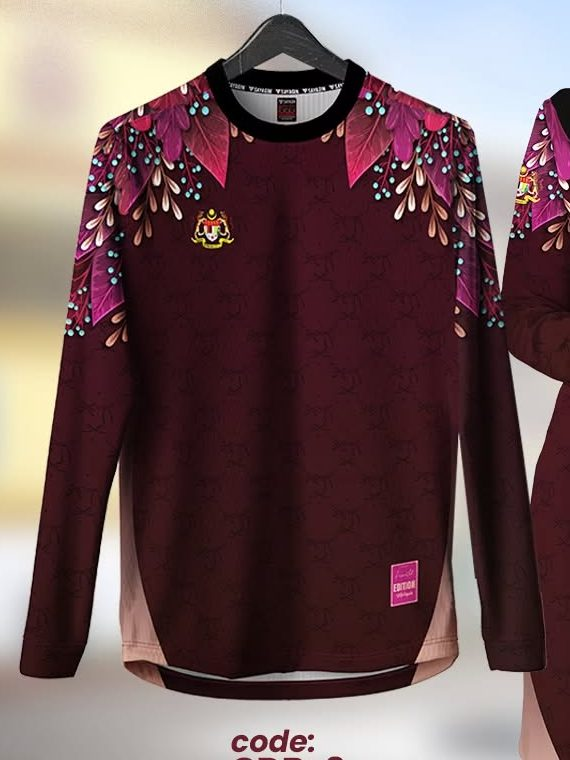
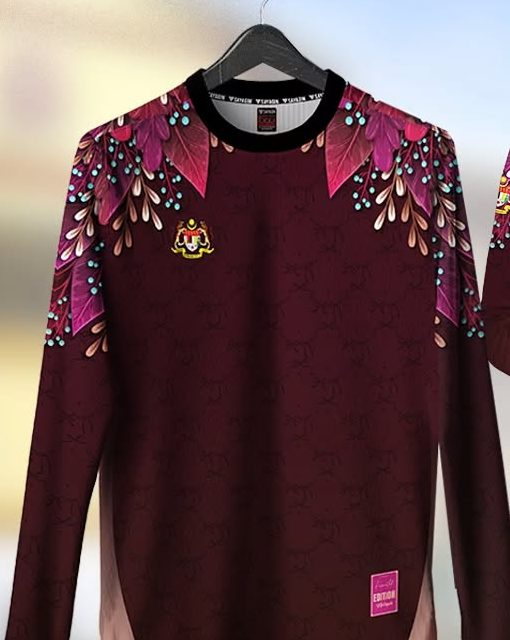
Redesign hero as photo collage, clean product crops, fill FAQ answers
Claude-Session: https://claude.ai/code/session_01PK6wSYaoAdP436P31zBBdm

diff --git a/index.html b/index.html
@@ -91,6 +91,20 @@
   .hero-card{background:var(--black);border-radius:20px;padding:18px;transform:rotate(2deg);box-shadow:10px 10px 0 rgba(0,0,0,.18);transition:transform .3s}
   .hero-card:hover{transform:rotate(0)}
   .hero-img{width:100%;height:auto;aspect-ratio:1024/864;object-fit:cover;object-position:center top;border-radius:12px}
+  .hero-visual{position:relative;width:100%;max-width:500px;aspect-ratio:1/1;justify-self:end}
+  .hv{position:absolute;margin:0;background:#111;border-radius:18px;padding:10px 10px 0;box-shadow:8px 8px 0 rgba(0,0,0,.2);transition:transform .35s ease}
+  .hv img{display:block;width:100%;height:auto;border-radius:10px;object-fit:cover}
+  .hv figcaption{color:#fff;font-weight:800;text-transform:uppercase;font-size:.7rem;letter-spacing:.08em;padding:10px 4px}
+  .hv-back{width:62%;right:0;top:0;transform:rotate(5deg)}
+  .hv-back img{aspect-ratio:1/1}
+  .hv-back figcaption{text-align:right}
+  .hv-front{width:50%;left:2%;bottom:0;transform:rotate(-4deg);z-index:2}
+  .hv-front img{aspect-ratio:4/5;object-position:center top}
+  .hero-visual:hover .hv-back{transform:rotate(7deg) translateY(-4px)}
+  .hero-visual:hover .hv-front{transform:rotate(-6deg) translateY(-4px)}
+  .hv-sticker{position:absolute;right:4%;bottom:6%;z-index:3;width:118px;height:118px;border-radius:50%;background:#111;color:var(--yellow);border:3px solid var(--yellow);box-shadow:0 0 0 3px #111;display:grid;place-content:center;text-align:center;transform:rotate(-12deg);line-height:1.1}
+  .hv-sticker b{font-size:1.25rem;font-weight:900;text-transform:uppercase}
+  .hv-sticker span{font-size:.64rem;font-weight:800;text-transform:uppercase;letter-spacing:.06em;color:#fff}
   .hero-card .ph{aspect-ratio:4/5;border-radius:12px;background:repeating-linear-gradient(-45deg,#1c1c1c 0 16px,#232323 16px 32px);display:grid;place-items:center;color:#8a867e;font-size:.76rem;font-weight:600;text-align:center;padding:20px}
   .hero-card .ph img{width:38%;margin:0 auto 14px;filter:invert(79%) sepia(73%) saturate(1200%) hue-rotate(358deg) brightness(103%)}
   .hero-card .cap{display:flex;justify-content:space-between;align-items:center;color:#fff;margin-top:14px;font-weight:800;text-transform:uppercase;font-size:.82rem;letter-spacing:.04em}
@@ -101,7 +115,7 @@
     .hero .ctas{display:grid;grid-template-columns:1fr 1fr}
     .hero .ctas .btn{padding:14px 10px}
     .hero-card{transform:rotate(1.5deg)}
-    .hero-img{aspect-ratio:4/3}
+    .hero-visual{justify-self:center;max-width:400px}.hv-sticker{width:96px;height:96px}.hv-sticker b{font-size:1rem}
   }
   @media (max-width:400px){.hero .ctas{grid-template-columns:1fr}}
 
@@ -335,9 +349,10 @@
         <span>✓ Berdaftar SSM</span><span>✓ Sejak 2023</span><span>✓ Pos seluruh Malaysia</span><span class="tag">#barelokalboh</span>
       </div>
     </div>
-    <div class="hero-card">
-      <img class="hero-img" src="assets/hero-bunga.jpg" alt="Model lelaki dan wanita memakai Bunga Collection V2 berwarna maroon dengan corak bunga di bahu" width="1024" height="864" fetchpriority="high">
-      <div class="cap">Koleksi Terkini <small>Bunga Collection V2</small></div>
+    <div class="hero-visual">
+      <figure class="hv hv-back"><img src="assets/hero-jersi-detail.jpg" alt="Detail kolar dan label jersi sublimasi Sayagin Apparel" width="600" height="600" fetchpriority="high"><figcaption>Jersi Sublimasi</figcaption></figure>
+      <figure class="hv hv-front"><img src="assets/p-polo.jpg" alt="Model memakai polo Bunga Collection berwarna maroon" width="480" height="600"><figcaption>Bunga Collection</figcaption></figure>
+      <div class="hv-sticker" aria-hidden="true"><b>Cetak</b><span>ikut cara anda</span></div>
     </div>
   </div>
 </header>
@@ -482,12 +497,13 @@
       <p>Tak jumpa jawapan? <a class="wa-link" href="#" style="font-weight:800">Tanya kami di WhatsApp</a>.</p>
     </div>
     <div class="reveal">
-      <details><summary>Ada minimum tempahan untuk servis cetak?</summary><p>[Isi kuantiti minimum, jika ada.]</p></details>
-      <details><summary>Ada saiz apa?</summary><p>[Isi senarai saiz anda dan carta ukuran.]</p></details>
-      <details><summary>Berapa lama penghantaran?</summary><p>[Isi anggaran tempoh pos untuk Semenanjung dan Sabah/Sarawak.]</p></details>
-      <details><summary>Boleh buat tempahan kumpulan?</summary><p>Boleh. Isi borang tempahan dengan anggaran kuantiti dan tarikh yang diperlukan, dan kami akan beri sebut harga.</p></details>
-      <details><summary>Boleh ambil sendiri di Pasir Mas?</summary><p>[Isi sama ada pelanggan boleh ambil sendiri, dan lokasinya.]</p></details>
-      <details><summary>Cara bayaran?</summary><p>[Isi kaedah bayaran yang diterima, contoh pindahan bank atau DuitNow QR.]</p></details>
+      <details><summary>Ada minimum tempahan untuk servis cetak?</summary><p>Untuk cetak custom, minimum tempahan ialah 10 helai bagi setiap rekaan. Kuantiti lebih kecil boleh dibincangkan melalui WhatsApp.</p></details>
+      <details><summary>Boleh bantu buat rekaan?</summary><p>Boleh. Pereka kami akan bantu hasilkan rekaan berdasarkan idea, logo atau contoh anda. Draf rekaan pertama adalah percuma untuk tempahan custom.</p></details>
+      <details><summary>Ada saiz apa?</summary><p>Saiz XS hingga 3XL sentiasa tersedia. Saiz 4XL dan 5XL boleh ditempah dengan caj tambahan RM 5 sehelai. Carta ukuran akan dihantar melalui WhatsApp.</p></details>
+      <details><summary>Berapa lama tempahan siap?</summary><p>Koleksi siap pakai dipos dalam 1 hingga 3 hari bekerja. Tempahan cetak custom siap dalam 10 hingga 14 hari bekerja selepas rekaan disahkan. Pos ke Semenanjung mengambil 2 hingga 4 hari, dan Sabah/Sarawak 4 hingga 7 hari.</p></details>
+      <details><summary>Boleh buat tempahan kumpulan?</summary><p>Boleh. Isi borang tempahan dengan anggaran kuantiti dan tarikh yang diperlukan, dan kami akan beri sebut harga. Lebih banyak kuantiti, lebih rendah harga sehelai.</p></details>
+      <details><summary>Boleh ambil sendiri di Pasir Mas?</summary><p>Boleh. Pesanan boleh diambil sendiri di kedai kami di Pasir Mas, Kelantan. Kami akan maklumkan melalui WhatsApp bila pesanan sedia untuk diambil.</p></details>
+      <details><summary>Cara bayaran?</summary><p>Kami terima pindahan bank online dan DuitNow QR. Untuk tempahan custom, deposit 50% diperlukan sebelum produksi bermula dan baki dibayar sebelum penghantaran.</p></details>
     </div>
   </div>
 </section>
